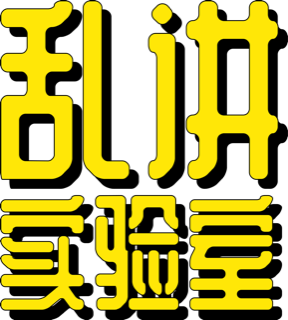
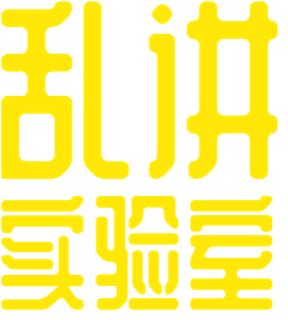
Polish fortune layout and transparent sticker
Copilot-Session: 87039279-aad5-49fb-a8c1-bfee8972be4f

diff --git a/index.html b/index.html
@@ -766,6 +766,7 @@
 
       .fortune-stage {
         position: relative;
+        top: var(--spacingVerticalS);
         display: grid;
         justify-items: center;
         gap: var(--spacingVerticalL);
@@ -880,10 +881,10 @@
         left: var(--spacingHorizontalXXL);
         width: var(--fortuneStickerWidth);
         height: auto;
-        background: var(--colorInk);
+        background: transparent;
         border: 0;
-        box-shadow: var(--spacingHorizontalS) var(--spacingVerticalS) 0 var(--colorWashiDeep);
-        clip-path: polygon(5% 1%, 96% 4%, 100% 92%, 90% 100%, 2% 96%, 0 8%);
+        box-shadow: none;
+        filter: drop-shadow(var(--spacingHorizontalS) var(--spacingVerticalS) 0 var(--colorInk));
         transform: translateZ(16px) rotate(-6deg);
       }
 
@@ -957,8 +958,8 @@
         color: var(--colorInk);
         background: transparent;
         border: 0;
-        font-size: var(--fontSizeBase200);
-        line-height: var(--lineHeightBase200);
+        font-size: var(--fontSizeBase300);
+        line-height: var(--lineHeightBase300);
         font-weight: var(--fontWeightBold);
         letter-spacing: var(--labelTracking);
         text-align: center;
@@ -1076,10 +1077,12 @@
         line-height: var(--lineHeightFortune);
         font-weight: var(--fontWeightBold);
         text-shadow: var(--strokeThin) var(--strokeThin) 0 var(--colorWashiLight);
-        transform: translateY(calc(0px - var(--spacingVerticalMNudge))) rotate(-6deg) scale(1.16);
+        transform: translateY(calc(0px - var(--spacingVerticalSNudge))) rotate(-6deg) scale(1.16);
       }
 
       .fortune-continue {
+        position: relative;
+        z-index: 6;
         min-width: 168px;
         min-height: var(--controlMinSize);
         padding: var(--controlPadBlock) var(--spacingHorizontalXXL);

diff --git a/README.md b/README.md
@@ -9,7 +9,7 @@
 - `PERFECT / GOOD / COOL` 节拍判定与连击
 - 连续 3 次 `PERFECT` 触发 10 秒特殊时刻
 - 大号 `MISS` 反馈后延迟 500ms 揭签
-- 随机六档吉凶签、中英双语关键词与无白边“乱讲实验室”品牌贴纸
+- 随机六档吉凶签、中英双语关键词与透明底“乱讲实验室”品牌贴纸
 - 带漫画外轮廓的粉色放生主拍箭头与 🫳 入水按钮
 - Canvas 2D 动画、Web Audio 合成音效与响应式布局
 - 功德、放生和声音设置保存在当前设备
